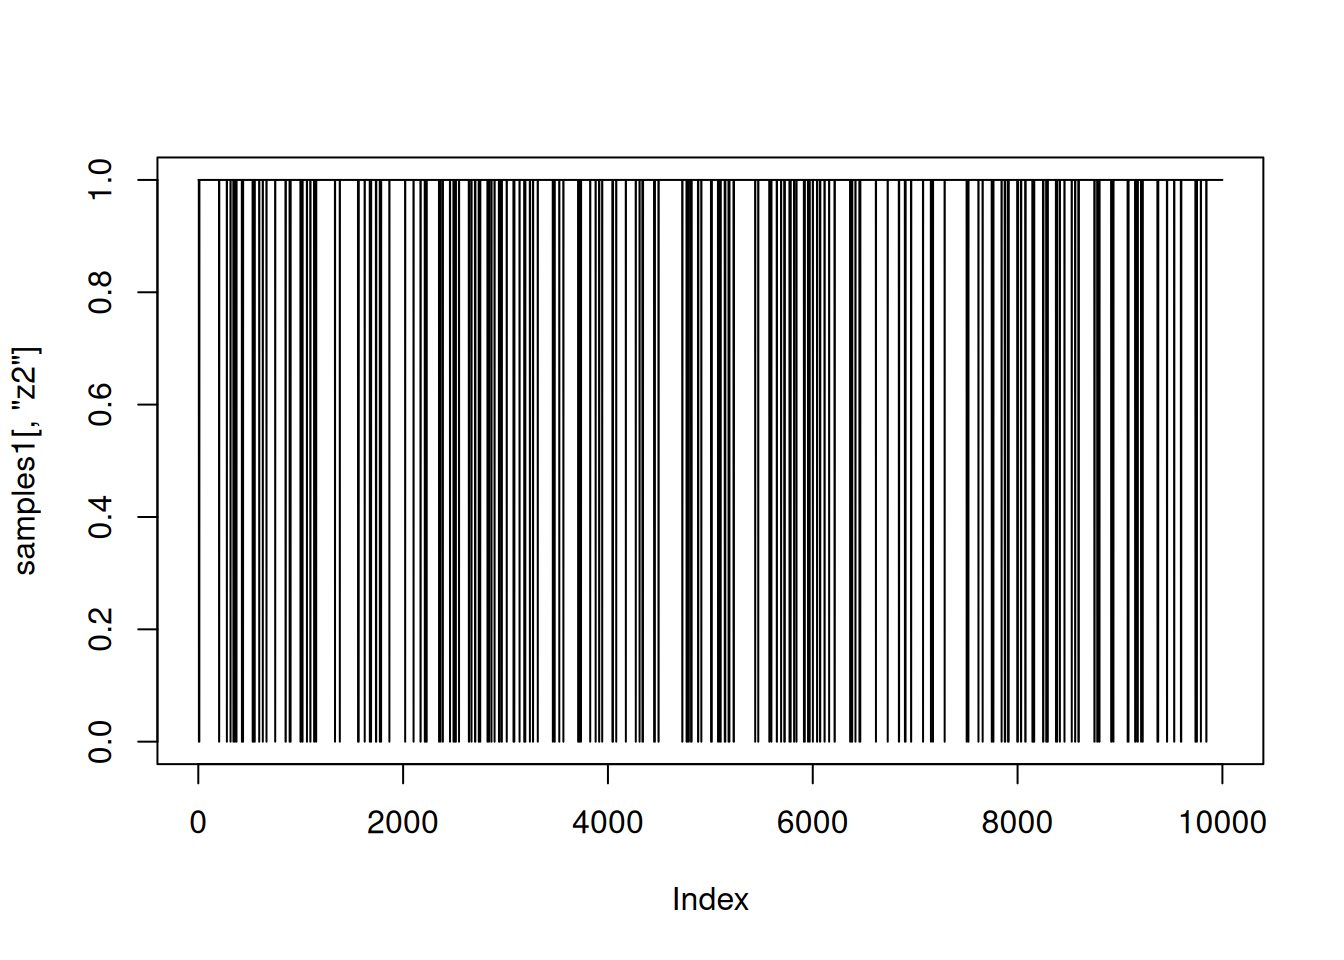
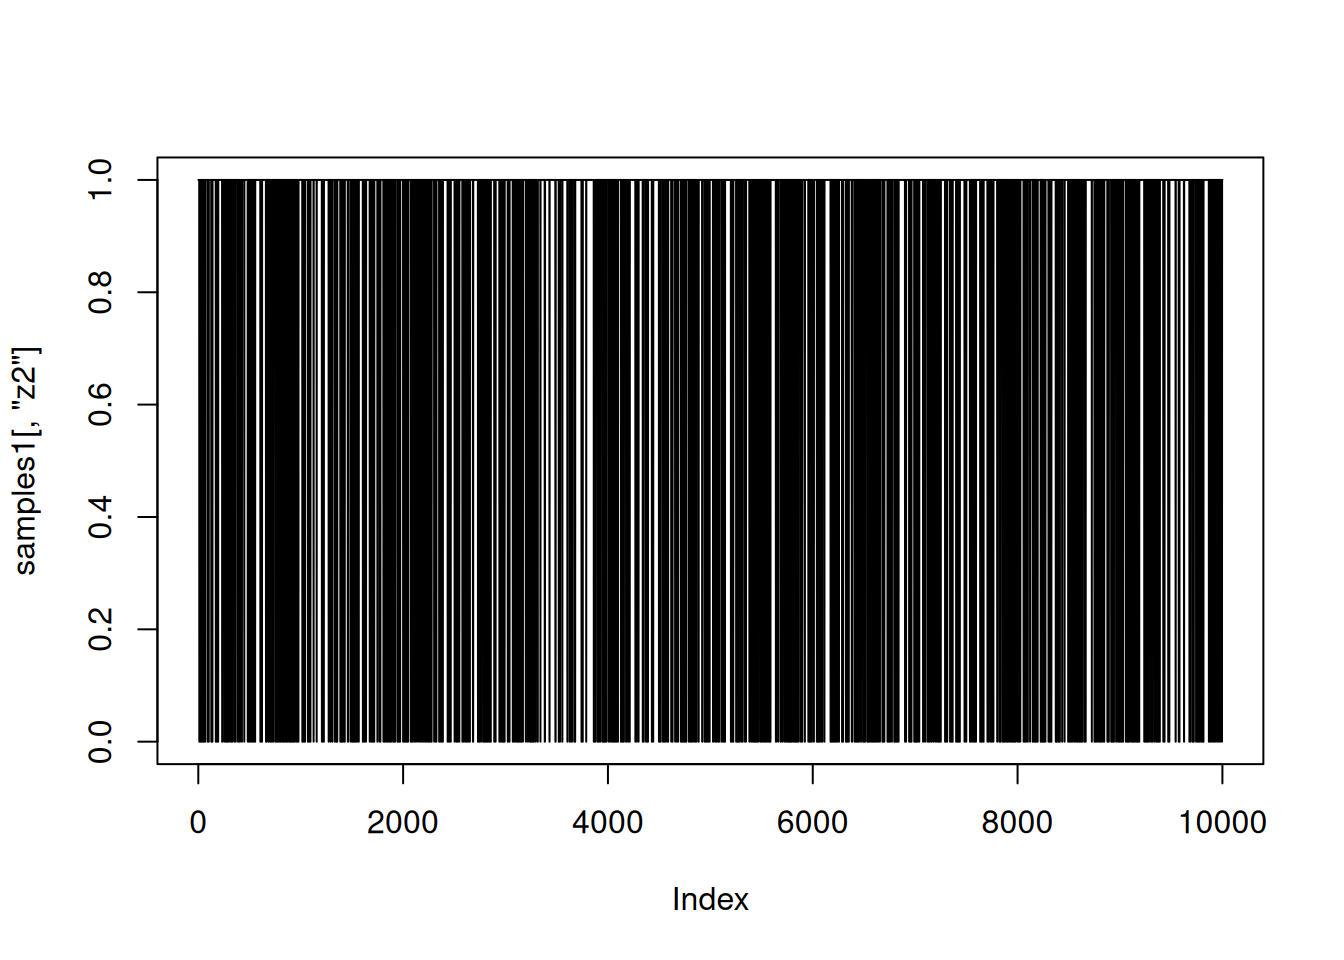
Built site for gh-pages

diff --git a/blog/writing-reversible-jump-mcmc-in-nimble.html b/blog/writing-reversible-jump-mcmc-in-nimble.html
@@ -771,11 +771,11 @@ conjugate sampler (3)
 <div class="cell">
 <div class="sourceCode cell-code" id="cb48"><pre class="sourceCode r code-with-copy"><code class="sourceCode r"><span id="cb48-1"><a href="#cb48-1" aria-hidden="true" tabindex="-1"></a><span class="fu">mean</span>(samples1[,<span class="st">'beta2'</span>]<span class="sc">==</span><span class="dv">0</span>)</span></code><button title="Copy to Clipboard" class="code-copy-button"><i class="bi"></i></button></pre></div>
 <div class="cell-output cell-output-stdout">
-<pre><code>[1] 0.0299</code></pre>
+<pre><code>[1] 0.124</code></pre>
 </div>
 <div class="sourceCode cell-code" id="cb50"><pre class="sourceCode r code-with-copy"><code class="sourceCode r"><span id="cb50-1"><a href="#cb50-1" aria-hidden="true" tabindex="-1"></a><span class="fu">mean</span>(samples2[,<span class="st">'beta2'</span>]<span class="sc">==</span><span class="dv">0</span>)</span></code><button title="Copy to Clipboard" class="code-copy-button"><i class="bi"></i></button></pre></div>
 <div class="cell-output cell-output-stdout">
-<pre><code>[1] 0.0269</code></pre>
+<pre><code>[1] 0.1242</code></pre>
 </div>
 <div class="sourceCode cell-code" id="cb52"><pre class="sourceCode r code-with-copy"><code class="sourceCode r"><span id="cb52-1"><a href="#cb52-1" aria-hidden="true" tabindex="-1"></a><span class="fu">qqplot</span>(samples1[ samples1[,<span class="st">'beta2'</span>] <span class="sc">!=</span> <span class="dv">0</span>,<span class="st">'beta2'</span>], samples2[samples2[,<span class="st">'beta2'</span>] <span class="sc">!=</span> <span class="dv">0</span>,<span class="st">'beta2'</span>])</span>
 <span id="cb52-2"><a href="#cb52-2" aria-hidden="true" tabindex="-1"></a><span class="fu">abline</span>(<span class="dv">0</span>,<span class="dv">1</span>)</span></code><button title="Copy to Clipboard" class="code-copy-button"><i class="bi"></i></button></pre></div>
